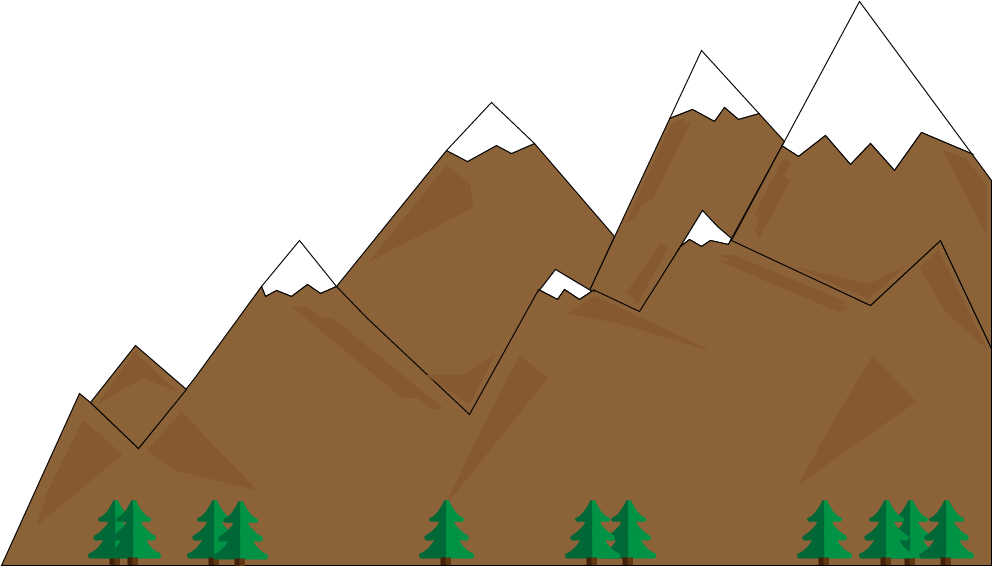
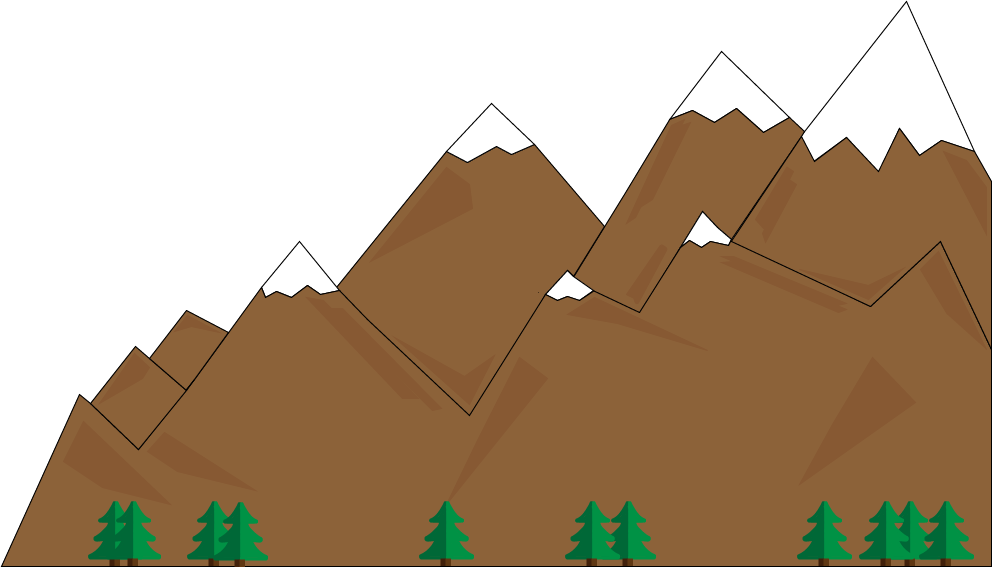
scenery updated for change in design

diff --git a/my-portfolio/src/Styles/less/jumbotron.less b/my-portfolio/src/Styles/less/jumbotron.less
@@ -18,18 +18,18 @@
         .mountains {
             display: flex;
             justify-content: center;
-            z-index: 5;
+            z-index: 1;
             margin-top: 160px;
 
             .mtns_left {
                 width: 990px;
-                height: 564px;
+                height: 594px;
                 padding-right: 170px;
             }
     
             .mtns_right {
                 width: 990px;
-                height: 564px;
+                height: 594px;
                 padding-left: 170px;
             }
         }
@@ -41,6 +41,7 @@
             margin-left: auto;
             margin-right: auto;
             width: 550px;
+            // z-index: 1;
         }
 
         .lt {
@@ -61,17 +62,15 @@
             width: 100%;
             height: 300px;
             background-color: #85AB36;
-            z-index: 1;
-            position: relative;
+            position: absolute;
+            display: flex;
+            justify-content: center;
+            margin-top: 722px;
 
             .lake {
-                width: 340px;
-                position: absolute;
-                top: 0;
-                margin-left: auto;
-                margin-right: auto;
-                left: 0;
-                right: 0;
+                width: 346px;
+                height: 96px;
+                margin-top: -1px;
             }
         }
     } 

diff --git a/my-portfolio/src/Styles/css/index.css b/my-portfolio/src/Styles/css/index.css
@@ -31,17 +31,17 @@ code {
 .jumbotron .scenery .mountains {
   display: flex;
   justify-content: center;
-  z-index: 5;
+  z-index: 1;
   margin-top: 160px;
 }
 .jumbotron .scenery .mountains .mtns_left {
   width: 990px;
-  height: 564px;
+  height: 594px;
   padding-right: 170px;
 }
 .jumbotron .scenery .mountains .mtns_right {
   width: 990px;
-  height: 564px;
+  height: 594px;
   padding-left: 170px;
 }
 .jumbotron .scenery .wave {
@@ -67,17 +67,15 @@ code {
   width: 100%;
   height: 300px;
   background-color: #85AB36;
-  z-index: 1;
-  position: relative;
+  position: absolute;
+  display: flex;
+  justify-content: center;
+  margin-top: 722px;
 }
 .jumbotron .scenery .grass .lake {
-  width: 340px;
-  position: absolute;
-  top: 0;
-  margin-left: auto;
-  margin-right: auto;
-  left: 0;
-  right: 0;
+  width: 346px;
+  height: 96px;
+  margin-top: -1px;
 }
 .about-me {
   width: 100%;

diff --git a/my-portfolio/src/Components/Jumbotron.js b/my-portfolio/src/Components/Jumbotron.js
@@ -24,8 +24,7 @@ class Jumbotron extends Component {
             <div className='jumbotron'>
                 {/* <img src={Cloud1} alt='cloud'/>
                 <img src={Cloud2} alt='cloud'/>
-                <img src={Sun} alt='sun'/>
-                <img src={Tree} alt='tree'/> */}
+                <img src={Sun} alt='sun'/> */}
                 <div className='scenery'>
                     <div className='mountains'>
                         <img src={Mtns_left} alt='mountains' className='mtns_left'/>
